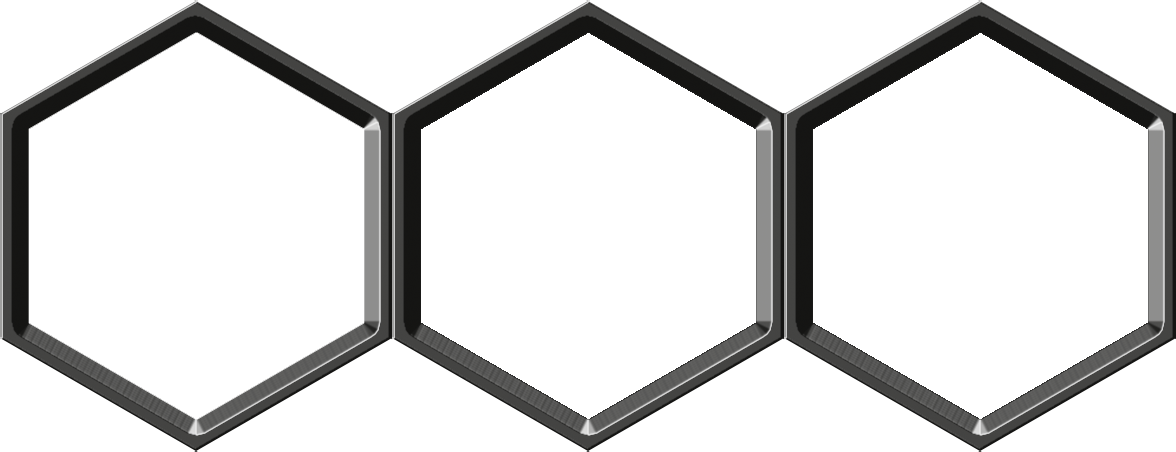
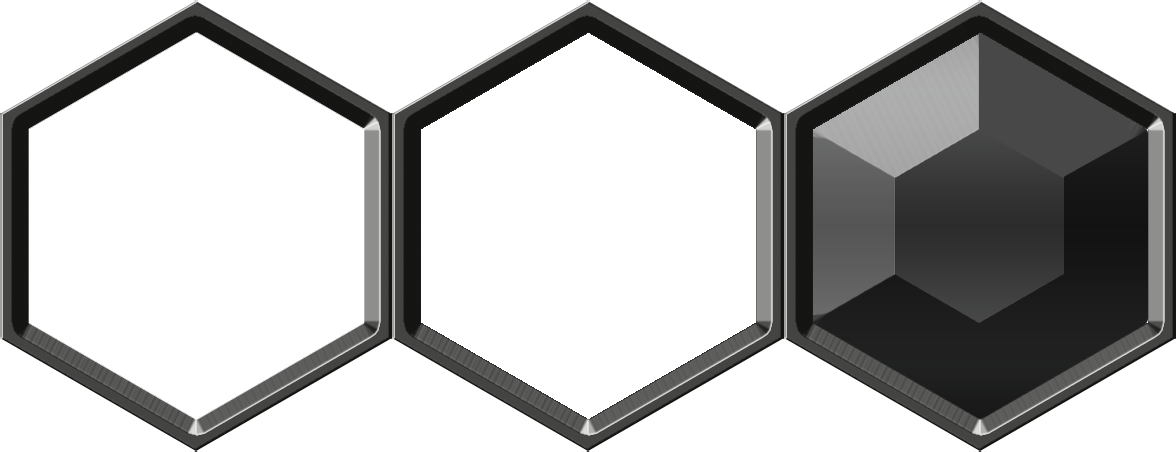
replaces some assets, adds ANIMATION_SPEED constants, adds animation for replacing already captured nodes

Changed region(s): [[0.6735, 0.0619, 0.9796, 0.9292]]

diff --git a/src/sprites/hex.js b/src/sprites/hex.js
@@ -1,4 +1,4 @@
-import { RED } from '../scenes/Game'
+import { RED, ANIMATION_SPEED } from '../scenes/Game'
 
 export default class Hex {
   constructor(y, x, position, scene, xOffset = 0, yOffset = 0) {
@@ -39,7 +39,7 @@ export default class Hex {
   }
 
   select() {
-    if (this.captured) {
+    if (this.captured || this.destroyed) {
       return
     }
     this.active = true
@@ -47,7 +47,7 @@ export default class Hex {
   }
 
   deselect() {
-    if (this.captured) {
+    if (this.captured || this.destroyed) {
       return
     }
     this.active = false
@@ -55,7 +55,7 @@ export default class Hex {
   }
 
   hover() {
-    if (this.captured) {
+    if (this.captured || this.destroyed) {
       return
     }
     if (!this.active) {
@@ -67,7 +67,14 @@ export default class Hex {
     if (this.score === 0 || this.destroyed || this.color === color) {
       return
     }
-    this.tweenNode(color, index)
+
+    if (this.captured) {
+      this.replaceNode(color, index)
+    } else {
+      this.tweenNode(color, index)
+    }
+
+    this.captured = true
   }
 
   tweenNode(color, index) {
@@ -92,8 +99,8 @@ export default class Hex {
       scaleX: this.scene.game.scaleFactor * 0.25,
       scaleY: this.scene.game.scaleFactor * 0.25,
       ease: 'Bounce.easeOut',
-      delay: index * 300,
-      duration: 750,
+      delay: index * 200 * ANIMATION_SPEED,
+      duration: 750 * ANIMATION_SPEED,
       onComplete: () => {
         this.emitter.setPosition(this.sprite.x, this.sprite.y)
         this.emitter.setAlpha(0.1 + 0.2 * index)
@@ -101,6 +108,21 @@ export default class Hex {
         this.emitter.active = true
         this.emitter.explode()
       },
+    })
+  }
+
+  replaceNode(color, index) {
+    const sprite = color === RED ? this.blueNodeSprite : this.redNodeSprite
+
+    this.scene.tweens.add({
+      targets: sprite,
+      alpha: 1,
+      scaleX: 0,
+      scaleY: 0,
+      ease: 'Linear',
+      delay: 0,
+      duration: 100 * ANIMATION_SPEED,
+      onComplete: () => this.tweenNode(color, index),
     })
   }
 

diff --git a/src/scenes/Game.js b/src/scenes/Game.js
@@ -5,6 +5,7 @@ export const RED = 0xaa3377
 export const RED_STRING = '#aa3377'
 export const BLUE = 0x339933
 export const BLUE_STRING = '#339933'
+export const ANIMATION_SPEED = 1
 
 const STARTING_COORDS = [
   [{ x: 3, y: 0, color: RED }, { x: 5, y: 0, color: RED }],
@@ -34,6 +35,7 @@ export default class extends Phaser.Scene {
   }
 
   create() {
+    this.turn = 0
     this.activeTurnColor = RED
     this.hexService = new HexService(this)
     this.setScale()
@@ -124,6 +126,13 @@ export default class extends Phaser.Scene {
     this.linkService.drawLinks()
     this.destroyIntersection()
     this.captureNodes()
+    this.turn++
+
+    if (this.turn === 10) {
+      this.activeTurnColor = null
+      console.log('GAME OVER!')
+    }
+
     this.activeTurnColor = this.activeTurnColor === BLUE ? RED : BLUE
   }
 

diff --git a/src/sprites/piece.js b/src/sprites/piece.js
@@ -1,3 +1,5 @@
+import { ANIMATION_SPEED } from '../scenes/Game'
+
 export default class Piece {
   constructor(scene, hex, color) {
     this.color = color
@@ -14,7 +16,7 @@ export default class Piece {
       x: toHex.hexObject.sprite.x,
       y: toHex.hexObject.sprite.y - 2,
       ease: 'Power1',
-      duration: 500,
+      duration: 500 * ANIMATION_SPEED,
       onUpdate: (tween, image) => {
         this.pair.graphics.clear()
         const { x, y } = this.link.sprite

diff --git a/src/index.html b/src/index.html
@@ -26,7 +26,7 @@
     body {
       margin: 0;
       padding: 0;
-      background: url('./assets/images/space.png');
+      background: url('./assets/images/space.jpg');
       background-position: center;
       background-size: cover;
     }
